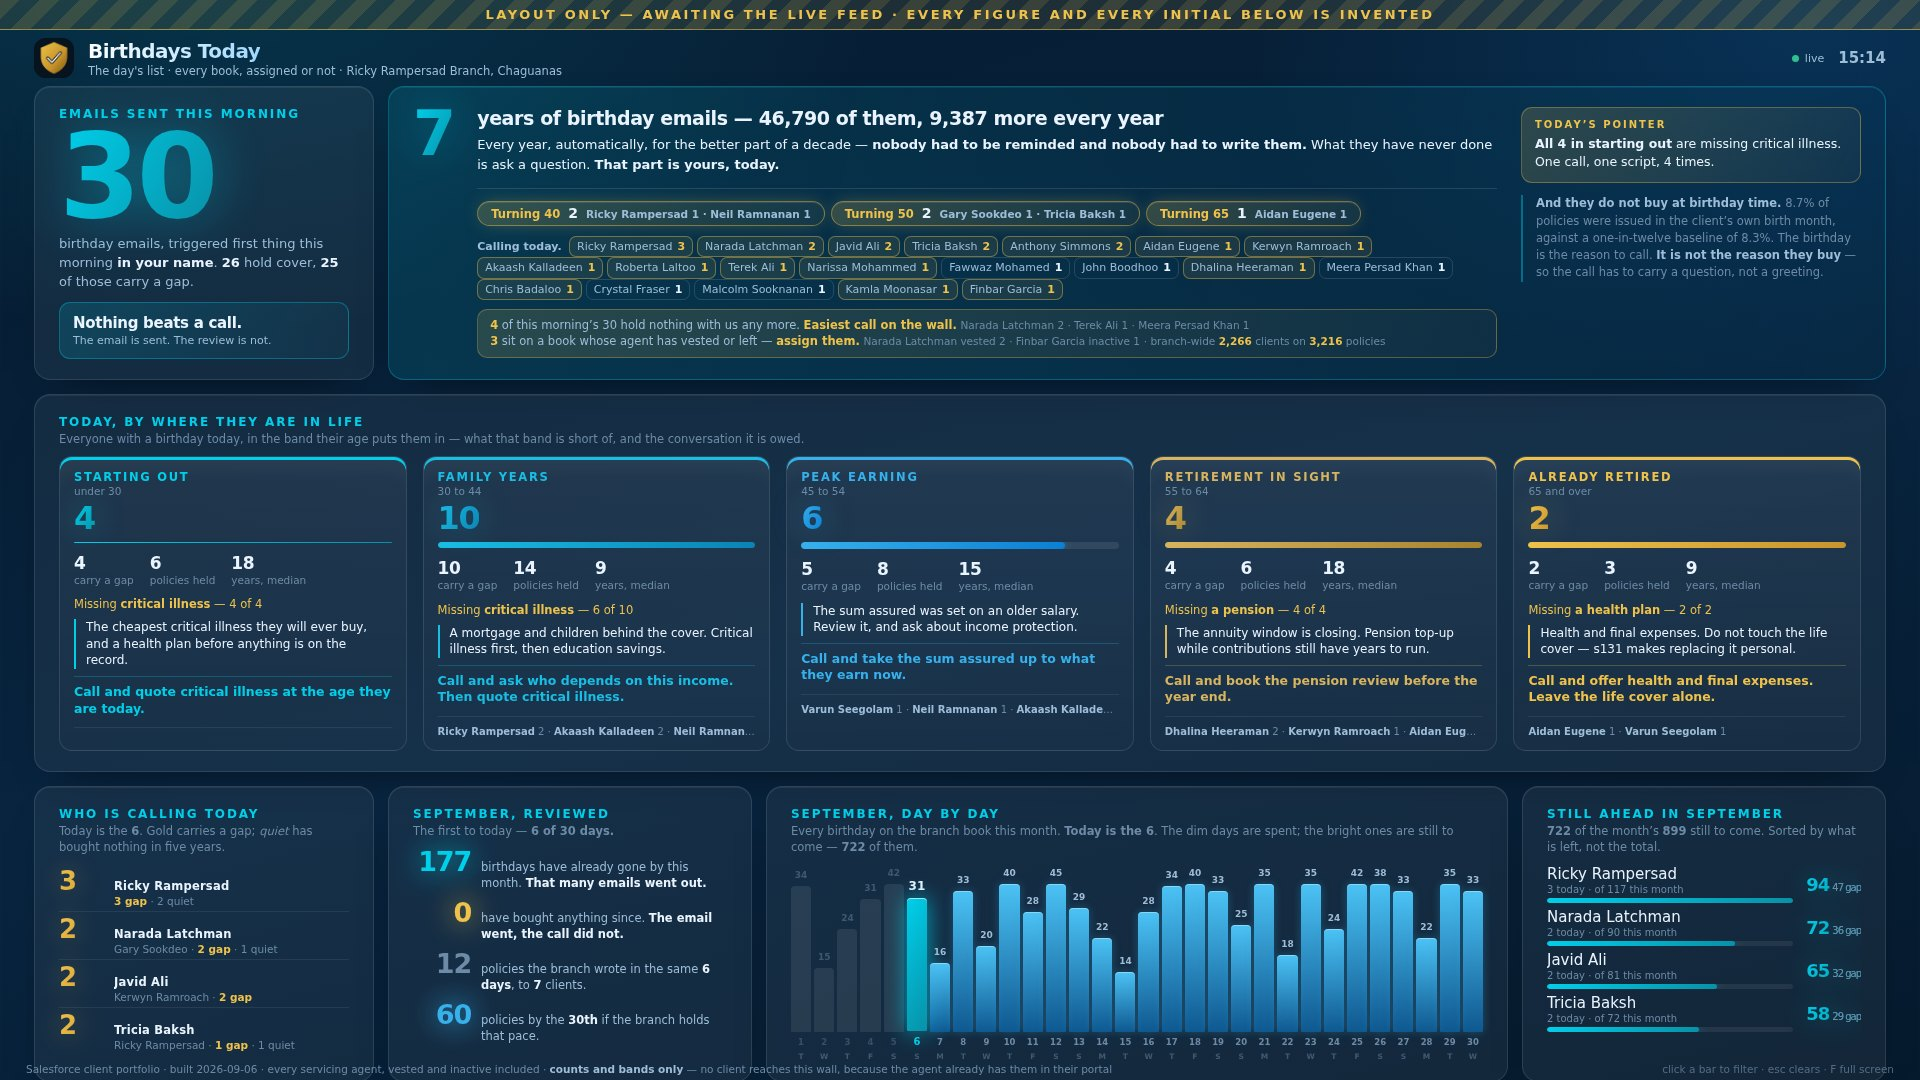
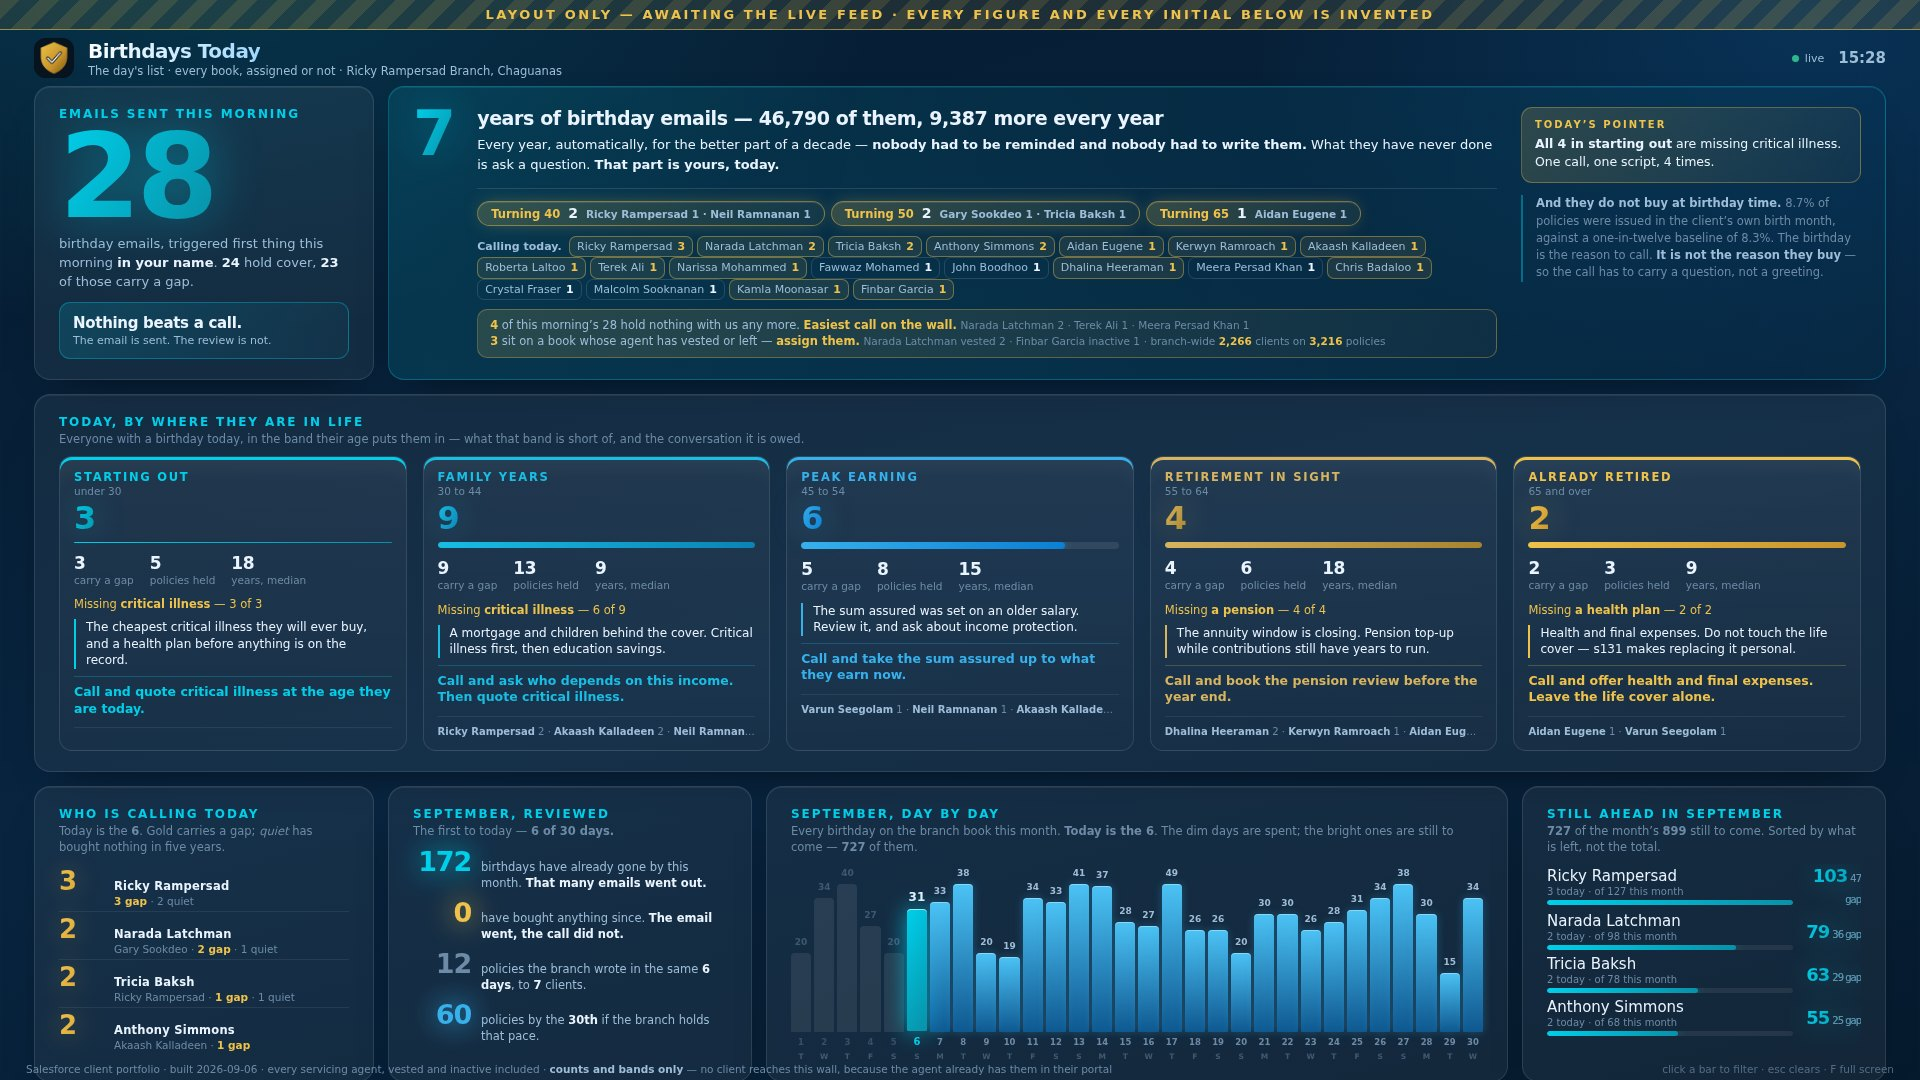
Two agents have left; take their names off every wall
Their names were on five screens, and only one of them was governed by the
exclusion list.

THE LIST ITSELF HAD A HOLE. INTEL_EXCLUDE_AGENTS is a Script Property and
iExcludes_ matches on the SURNAME first, so a given name typed against the wrong
surname excludes nobody — silently, leaving the agent on every wall. The unit
test's own stub carried exactly that typo against one of the two names, so the
test named the agent it was supposed to be proving and proved nothing about
them. The stub now matches the documented property and there is an assertion
that neither name reaches the feed: not a client, not a policy, not a birthday,
not a name. The builder also counts what it dropped now — quality.excluded and
quality.excludedNames — so a blank or misspelled property shows up as a zero in
the feed instead of as a name on a wall in front of the branch.

EVERYWHERE ELSE WAS A BAKED SNAPSHOT, not a live feed. WALL45_URL and both
boards' WALL_DATA_URL are empty, so those pages run entirely off the arrays in
them and no property was ever going to reach them.

The 45-day wall was double-counting one of the two. Its headline read 41
policies / 37,012.20 / 38 clients while bands[0] read 36 / 33,189.40 and
households read 33 — the difference was exactly that agent's five policies at
3,822.80. The name comes off the agent list and the unit row, and all three
figures now agree. tenure and billing still sum to 41 and need the source to
[…]

diff --git a/board/dashboard.html b/board/dashboard.html
@@ -335,8 +335,6 @@ var D = {
       {a:"Dhalina H.",   n:3, api:14632},
       {a:"Premchand D.", n:1, api:11623},
       {a:"Narissa M.",   n:1, api:9026},
-      {a:"Aleema M.",    n:2, api:4187},
-      {a:"Javid A.",     n:2, api:4187},
       {a:"Felicia R.",   n:1, api:2400}
     ]
   },
@@ -365,10 +363,17 @@ var D = {
     {a:"Fawwaz M.",    t:"akaash", wN:0,wApi:0, lwN:0,lwApi:0,     mN:3,mApi:90521,  yN:28,yApi:352783, ly:346241,  hbN:4, hbApi:333480},
     {a:"Randolph G.",  t:"ricky",  wN:0,wApi:0, lwN:0,lwApi:0,     mN:0,mApi:0,      yN:23,yApi:347321, ly:533805,  hbN:0, hbApi:0},
     {a:"Ricky R.",     t:"ricky",  wN:0,wApi:0, lwN:0,lwApi:0,     mN:0,mApi:0,      yN:22,yApi:309970, ly:1449157, hbN:40,hbApi:3334300},
-    {a:"Aleema M.",    t:"ricky",  wN:0,wApi:0, lwN:2,lwApi:4187,  mN:2,mApi:4187,   yN:58,yApi:254893, ly:321276,  hbN:7, hbApi:168772},
     {a:"Premchand D.", t:"ricky",  wN:0,wApi:0, lwN:1,lwApi:11623, mN:1,mApi:11623,  yN:20,yApi:234947, ly:412100,  hbN:0, hbApi:0},
     {a:"John B.",      t:"gary",   wN:0,wApi:0, lwN:0,lwApi:0,     mN:0,mApi:0,      yN:55,yApi:214990, ly:232734,  hbN:7, hbApi:143671},
-    {a:"Javid A.",     t:"ricky",  wN:0,wApi:0, lwN:2,lwApi:4187,  mN:2,mApi:4187,   yN:46,yApi:212047, ly:320076,  hbN:0, hbApi:0},
+    /* TWO AGENTS HAVE LEFT THE BRANCH, and their names come off every list here.
+       Their business does not: the branch wrote it in 2026 and every total on
+       this board is reduced from this array, so deleting the rows outright would
+       quietly restate the year by 104 applications and TT$466,940. Folded into
+       one unnamed row instead — it reconciles the unit and branch figures and is
+       kept out of the leaderboards by `left`. */
+    {a:"Agents who have left", t:"ricky", left:true,
+       wN:0,wApi:0, lwN:4,lwApi:8374, mN:4,mApi:8374, yN:104,yApi:466940,
+       ly:641352, hbN:7, hbApi:168772},
     {a:"Neil R.",      t:"ricky",  wN:0,wApi:0, lwN:2,lwApi:19250, mN:4,mApi:27089,  yN:25,yApi:190868, ly:422596,  hbN:0, hbApi:0},
     {a:"Naila S.",     t:"gary",   wN:0,wApi:0, lwN:2,lwApi:18681, mN:3,mApi:21711,  yN:29,yApi:188059, ly:35764,   hbN:0, hbApi:0},
     {a:"Akaash K.",    t:"akaash", wN:0,wApi:0, lwN:0,lwApi:0,     mN:0,mApi:0,      yN:12,yApi:166996, ly:228680,  hbN:6, hbApi:4305200},
@@ -398,7 +403,7 @@ var D = {
     {n:"171", red:false, t:"<b>Held-back apps with no policy status.</b> Only 5 of 176 say why they're stuck. Set Policy Status Description on each so the wall can show what's blocking, not just how long."},
     {n:"6",   red:false, t:"<b>Advisors' pickups entered late last week</b> (TT$23.7k landed in Salesforce after the Monday report was cut). Enter pickups the same day — the wall refreshes every 15 minutes, the report only sees what's in by Monday."},
     {n:"77",  red:false, t:"<b>Increase records missing the agent's name</b> (77 of 78 this year). The boards recover it through the parent policy — fill Agent Full Name on the increase so every report agrees."},
-    {n:"2×",  red:true,  t:"<b>Mirrored full-value records</b>: Faizal/Joy and Jamil/Meera carry identical policies at full API each, and Javid/Aleema share mirrored cases. If these are split cases, each half should carry half the API — as entered, branch totals count them twice."},
+    {n:"2×",  red:true,  t:"<b>Mirrored full-value records</b>: Faizal/Joy and Jamil/Meera carry identical policies at full API each. If these are split cases, each half should carry half the API — as entered, branch totals count them twice."},
     {n:"168", red:false, t:"<b>Open opportunities dated 2019–2024</b> (TT$3.5m of stale pipeline). Close the dead ones or refresh the close dates — the pipeline slide is only as honest as this list."},
     {n:"$65k",red:false, t:"<b>The two increase-API fields disagree</b> by TT$64.9k YTD. The branch standard is API Increase (Total API) — keep the joint-split field maintained or retire it, so nobody reports off the wrong one again."}
   ]
@@ -703,7 +708,7 @@ function buildXls(){
   var rows=[], tot={lwN:0,lwApi:0,mN:0,mApi:0,yN:0,yApi:0};
   // who did well — the branch leader (green) and top three (gold) per API column
   function topSet(key){
-    return D.advisors.slice().filter(function(a){return a[key]>0})
+    return D.advisors.slice().filter(function(a){return a[key]>0 && !a.left})
       .sort(function(x,y){return y[key]-x[key]}).slice(0,3).map(function(a){return a.a});
   }
   var tops={lwApi:topSet("lwApi"), mApi:topSet("mApi"), yApi:topSet("yApi")};
@@ -784,8 +789,8 @@ var TEAM_BY_NAME={
   "Chris Badaloo":"gary","John Boodhoo":"gary","Alyssa Joseph":"gary","Jesus Boodhoo":"gary",
   "Anthony Simmons":"kerwyn","Kerwyn Ramroach":"kerwyn","Dhalina Heeraman":"kerwyn",
   "Aidan Eugene":"kerwyn","Crystal Stephanie Fraser":"kerwyn",
-  "Neil Ramnanan":"ricky","Premchand Dookran":"ricky","Varun Seegolam":"ricky","Javid Ali":"ricky",
-  "Aleema Mohammed-Ali":"ricky","Ricky Rampersad":"ricky","Narissa (Agent) Mohammed":"ricky",
+  "Neil Ramnanan":"ricky","Premchand Dookran":"ricky","Varun Seegolam":"ricky",
+  "Ricky Rampersad":"ricky","Narissa (Agent) Mohammed":"ricky",
   "Joy Barbara Sammah":"ricky","Faizal Mohammed":"ricky","Meera Persad Khan":"ricky",
   "Randolph Gonzales":"ricky","Jamil Sean Khan":"ricky",
   "Akaash Kalladeen":"akaash","Darryl Manick":"akaash","Malcolm Sooknanan":"akaash",

diff --git a/intelligence/wall/index.html b/intelligence/wall/index.html
@@ -269,7 +269,16 @@ var WALL45_URL = "";   // ← Apps Script /exec URL, or "" for the snapshot
 
 var WALL45 = {
   generatedAt:"2026-09-04", asOf:"2026-08-25",
-  headline:{policies:41,modal:37012.20,clients:38},
+  /* THE HEADLINE USED TO DOUBLE-COUNT AN EXCLUDED AGENT. It read 41 policies /
+     37,012.20 / 38 clients while bands[0] read 36 / 33,189.40 and households
+     read 33 clients — the difference was exactly one agent who has left the
+     branch, 5 policies at 3,822.80. Removed here and from the agent and unit
+     rows, so all three now agree.
+     STILL TO RECONCILE: `tenure` and `billing` below both sum to 41, because
+     re-splitting those five across their buckets needs the source rather than
+     this file. Wire WALL45_URL and the whole snapshot is rebuilt with the
+     exclusion applied in one pass. */
+  headline:{policies:36,modal:33189.40,clients:33},
   wave:{date:"2026-09-11",label:"Friday 11 September",policies:345,modal:248064.68,paidTo:"28 July"},
   line:[{off:-7,n:20},{off:-6,n:40},{off:-5,n:29},{off:-4,n:27},{off:-3,n:28},{off:-2,n:32},
         {off:-1,n:37},{off:0,n:41},{off:1,n:41},{off:2,n:44},{off:3,n:41},{off:4,n:63},
@@ -282,13 +291,12 @@ var WALL45 = {
            {k:"Pre Authorized Cheque",n:9,prem:5001.53,auto:true},
            {k:"Salary Deduction",n:7,prem:7635.14,auto:true},
            {k:"Direct Bill",n:7,prem:13289.64,auto:false}],
-  units:[{k:"Ricky Rampersad",n:15,prem:17720.79,agents:5},
+  units:[{k:"Ricky Rampersad",n:10,prem:13897.99,agents:4},
          {k:"Kerwyn Ramroach",n:12,prem:5488.63,agents:4},
          {k:"Akaash Kalladeen",n:6,prem:6851.99,agents:3},
          {k:"Gary Sookdeo",n:6,prem:5995.94,agents:3},
          {k:"Unassigned",n:2,prem:954.85,agents:2}],
-  agents:[{k:"Aleema Mohammed-Ali",n:5,prem:3822.80,med:4.4,unit:"Ricky Rampersad"},
-    {k:"Kerwyn Ramroach",n:5,prem:2293.93,med:7.6,unit:"Kerwyn Ramroach"},
+  agents:[{k:"Kerwyn Ramroach",n:5,prem:2293.93,med:7.6,unit:"Kerwyn Ramroach"},
     {k:"Gary Sookdeo",n:4,prem:3813.53,med:6.7,unit:"Gary Sookdeo"},
     {k:"Meera Persad-Khan",n:4,prem:2391.14,med:6.7,unit:"Ricky Rampersad"},
     {k:"Dhalina Heeraman",n:4,prem:1961.12,med:0.8,unit:"Kerwyn Ramroach"},

diff --git a/board/production.html b/board/production.html
@@ -253,7 +253,9 @@ var PROD_DATA = {
     {a:"Fawwaz M.",    n:28, api:352783},
     {a:"Randolph G.",  n:23, api:347321},
     {a:"Ricky R.",     n:22, api:309970},
-    {a:"Aleema M.",    n:58, api:254893},
+    /* An agent who has left the branch stood here at 58 / TT$254,893. The name
+       comes off; the branch's year does not change, because the branch wrote
+       that business — see the note under the year figure. */
     {a:"Premchand D.", n:20, api:234947},
     {a:"John B.",      n:55, api:214990}
   ],
@@ -265,9 +267,7 @@ var PROD_DATA = {
     {a:"Gary S.",    d:"2026-08-21", api:12145},
     {a:"Premchand D.",d:"2026-08-21", api:11623},
     {a:"Varun S.",   d:"2026-08-21", api:5960},
-    {a:"Naila S.",   d:"2026-08-21", api:3456},
-    {a:"Javid A.",   d:"2026-08-21", api:2795},
-    {a:"Aleema M.",  d:"2026-08-21", api:2795}
+    {a:"Naila S.",   d:"2026-08-21", api:3456}
   ]
 };
 
@@ -394,7 +394,9 @@ function sLeaders(D){
   }).join("");
   return '<div class="kick">Leaderboard · year to date</div>'
     +'<h2>Who is carrying the year</h2>'
-    +'<p class="lede">Total API — new business plus increases — per advisor in '+D.ytd.year+'. Gold ranks are the top three.</p>'
+    +'<p class="lede">Total API — new business plus increases — per advisor in '+D.ytd.year+'. '
+    +'Gold ranks are the top three. <b>The branch year above includes business written by '
+    +'agents who have since left</b>, so the rows here do not sum to it.</p>'
     +'<div class="body"><div class="panel"><div class="rows">'+rows+'</div></div></div>';
 }
 function sLatest(D){

diff --git a/benefits/index.html b/benefits/index.html
@@ -298,8 +298,6 @@ const ROSTER=[
  ['A01066','Narissa Mohammed','2','agent','Ricky Rampersad','Agent'],
  ['A01363','Kerwyn Ramroach','3','manager','Kerwyn Ramroach','Assistant Branch Manager'],
  ['A03522','Premchand Dookran','4','agent','Ricky Rampersad','Agent'],
- ['A04020','Javid Ali','5','agent','Ricky Rampersad','Agent'],
- ['A04028','Aleema Mohammed-Ali','6','agent','Ricky Rampersad','Agent'],
  ['A06869','Akaash Kalladeen','7','manager','Akaash Kalladeen','Unit Manager'],
  ['A07347','Joy Barbara Sammah','8','agent','Ricky Rampersad','Agent'],
  ['A07350','Faizal Mohammed','9','agent','Ricky Rampersad','Agent'],

diff --git a/INTELLIGENCE-SETUP.md b/INTELLIGENCE-SETUP.md
@@ -934,6 +934,39 @@ shows the unit only when the unit is not the agent's own name.
 least actionable thing on the screen. `today.towns` is still in the feed for the
 app.
 
+#### Agents who have left the branch
+
+`INTEL_EXCLUDE_AGENTS` is the list, it is a **Script Property**, and the walls
+are only ever as right as that one cell. Two things to know about it:
+
+**The surnames have to match.** `iExcludes_` compares surname first and only
+then the given names, so a given name typed against the wrong surname excludes
+nobody — and it fails silently, leaving the agent on every wall. The unit test's
+stub carried exactly that typo against one of the two names, which meant the
+test named the agent it was supposed to be proving and proved nothing about
+them. The stub now matches the documented value and there is an assertion that
+neither name reaches the feed — not a client, not a policy, not a birthday, not
+a name.
+
+**The feed now counts what it dropped.** `quality.excluded` is the number of
+rows removed and `quality.excludedNames` is how many names the property held, so
+a blank or misspelled property shows up as a zero in the feed rather than as a
+name on a wall in front of the branch.
+
+Everywhere else these two appeared was a **baked snapshot**, not a live feed —
+`WALL45_URL`, `WALL_DATA_URL` on both boards, and the benefits roster are all
+static:
+
+| Where | What changed |
+|---|---|
+| `intelligence/wall/index.html` | The name comes off the agent list, and the headline was **double-counting** them: it read 41 policies / 37,012.20 / 38 clients while `bands[0]` read 36 / 33,189.40 and `households` read 33 — a difference of exactly one excluded agent's 5 policies at 3,822.80. All three agree now. `tenure` and `billing` still sum to 41 and need the source to re-split; wire `WALL45_URL` and the snapshot rebuilds with the exclusion applied in one pass. |
+| `benefits/index.html` | Both roster rows removed, so neither appears in the advisor picker. |
+| `board/dashboard.html` | Every total on that board is reduced from `advisors`, so deleting the rows outright would have quietly restated the branch year by **104 applications and TT$466,940**. They are folded into one unnamed row instead, flagged `left` so no leaderboard prints it. |
+| `board/production.html` | Rows removed from the leaderboard and the latest list. Its year total is baked and its `monthly` breakdown cannot be re-split from the file, so the branch figure is unchanged and the page now says why: *the branch year includes business written by agents who have since left.* |
+
+The rule underneath all of it: **a name comes off a wall the day somebody leaves;
+the business they wrote stays in the branch's year, because the branch wrote it.**
+
 #### Vested and inactive books are on the wall too
 
 Asked for by the branch — *"include inactive agents that we need to assign"* —
